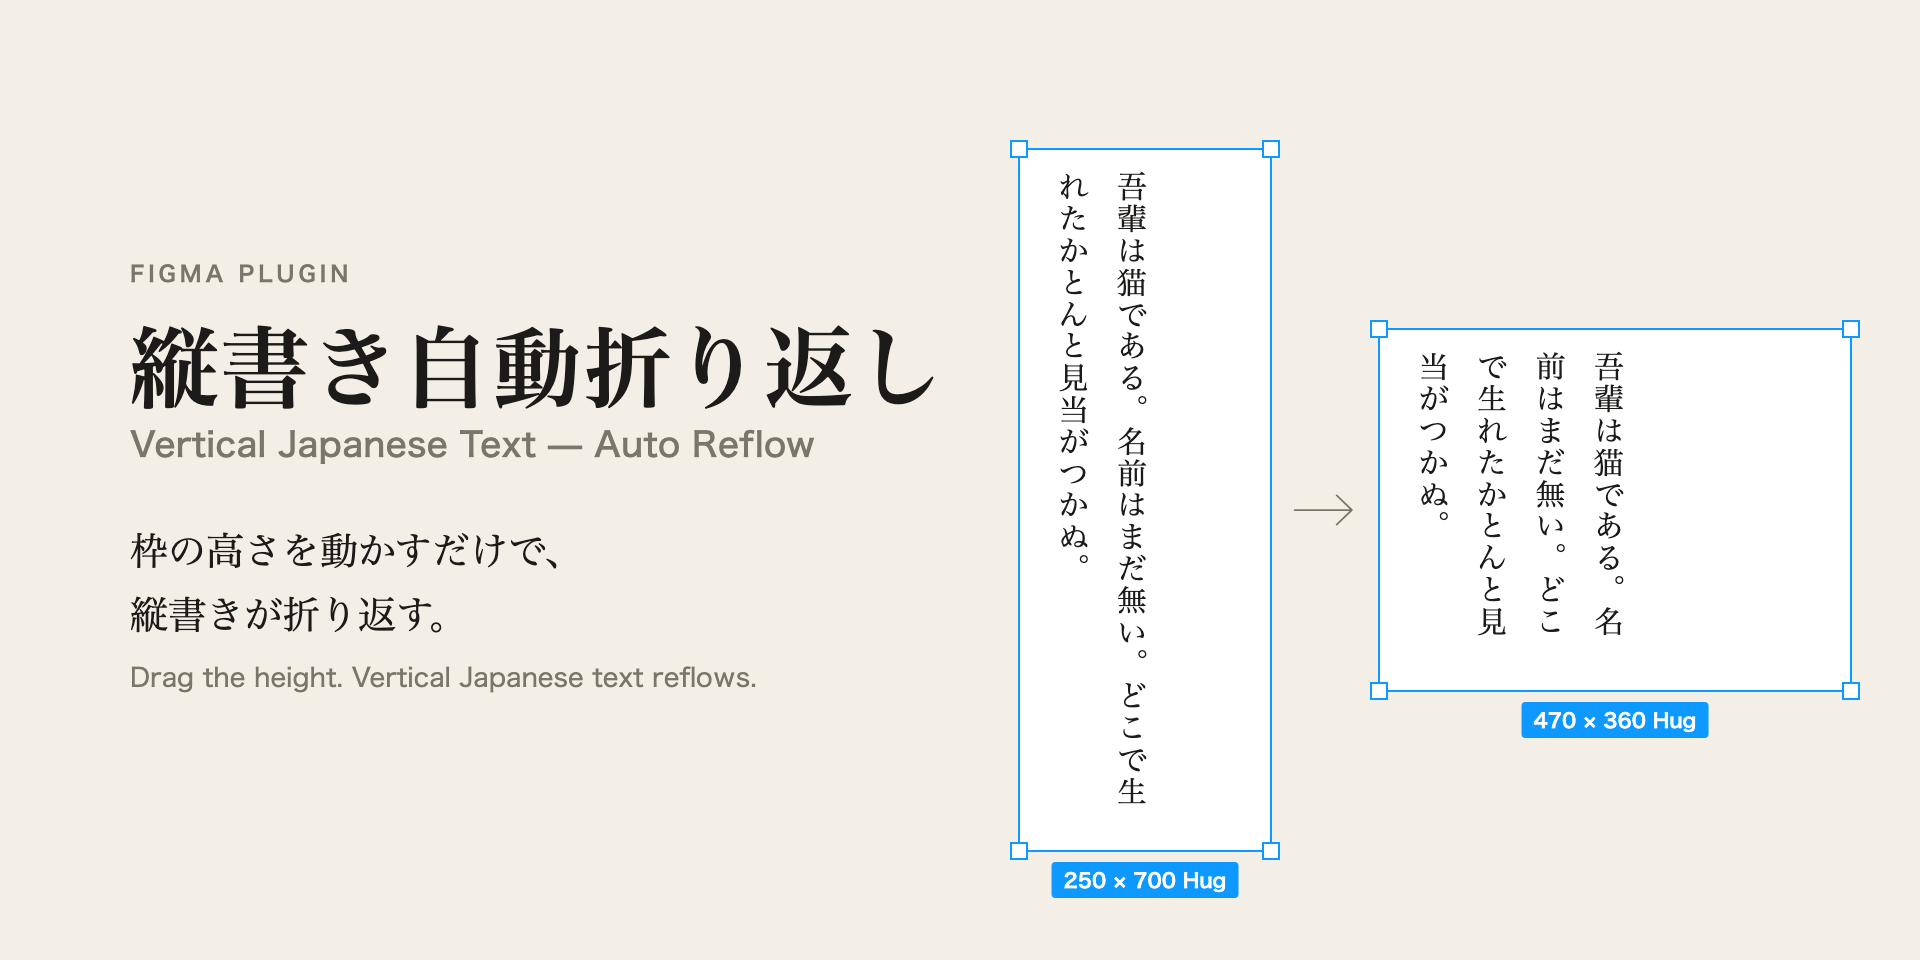
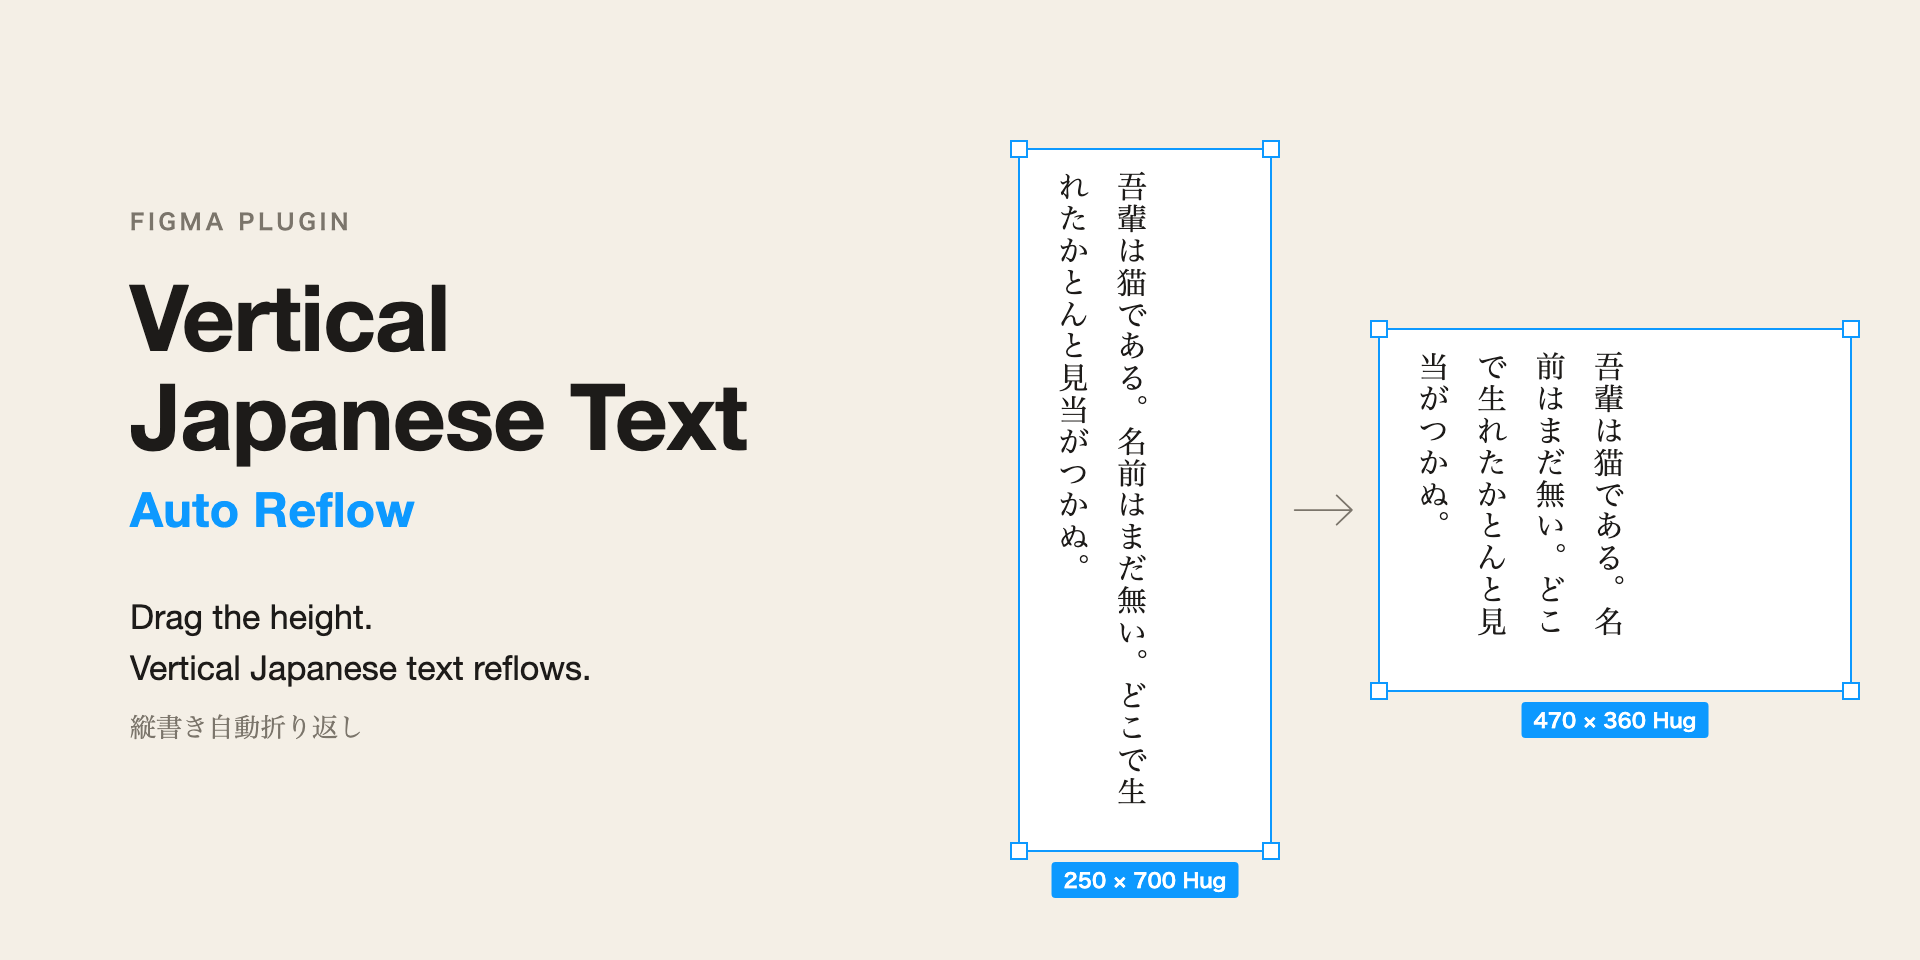
English-first listing and cover for non-Japanese audience

diff --git a/assets/cover.html b/assets/cover.html
@@ -14,10 +14,10 @@
   }
   .left { padding: 0 0 0 130px; }
   .tag { font: 600 22px/1 'Inter', 'Hiragino Sans', sans-serif; letter-spacing: .18em; color: var(--muted); text-transform: uppercase; }
-  h1 { font-weight: 600; font-size: 88px; line-height: 1.12; margin: 34px 0 6px; letter-spacing: .03em; white-space: nowrap; }
-  .en { font: 500 34px/1.2 'Inter', 'Hiragino Sans', sans-serif; color: var(--muted); letter-spacing: .01em; }
-  .lead { margin-top: 54px; font-size: 38px; line-height: 1.7; }
-  .lead small { display: block; margin-top: 10px; font: 400 26px/1.5 'Inter', 'Hiragino Sans', sans-serif; color: var(--muted); }
+  h1 { font: 700 92px/1.08 'Inter', 'Helvetica Neue', Arial, sans-serif; margin: 34px 0 14px; letter-spacing: -.01em; }
+  .en { font: 600 48px/1.2 'Inter', 'Helvetica Neue', Arial, sans-serif; color: var(--blue); letter-spacing: .01em; }
+  .lead { margin-top: 54px; font: 400 34px/1.5 'Inter', 'Helvetica Neue', Arial, sans-serif; }
+  .lead small { display: block; margin-top: 14px; font: 400 26px/1.6 'Hiragino Mincho ProN', 'Yu Mincho', serif; color: var(--muted); }
   .right { position: relative; height: 960px; }
   .frame { position: absolute; outline: 2px solid var(--blue); background: #fff; padding: 22px 24px; }
   .frame .t {
@@ -35,10 +35,10 @@
 <body>
   <div class="left">
     <div class="tag">Figma plugin</div>
-    <h1>縦書き自動折り返し</h1>
-    <div class="en">Vertical Japanese Text — Auto Reflow</div>
-    <p class="lead">枠の高さを動かすだけで、<br>縦書きが折り返す。
-      <small>Drag the height. Vertical Japanese text reflows.</small></p>
+    <h1>Vertical<br>Japanese Text</h1>
+    <div class="en">Auto Reflow</div>
+    <p class="lead">Drag the height.<br>Vertical Japanese text reflows.
+      <small>縦書き自動折り返し</small></p>
   </div>
   <div class="right">
     <div class="frame a">

diff --git a/PUBLISHING.md b/PUBLISHING.md
@@ -44,59 +44,59 @@ Vertical Japanese Text — Auto Reflow
 ```
 日本語名: 縦書き自動折り返し
 
-命名の根拠: Community で「vertical japanese」を検索すると Vertical Text JP（9.1k 利用）・Vertja（9.1k）などが出る。これらは「変換して終わり」型で、検索語（vertical / Japanese / text）を名前に含めつつ、競合にない「Auto Reflow」で差別化する。名前欄に長さの上限があって入らない場合は `Vertical Japanese Text` にして、Auto Reflow はタグラインに回す。
+命名の根拠: 海外のユーザーは「縦書き」「tategaki」を知らないので、名前は英語の一般語だけにする。Community で「vertical japanese」を検索すると Vertical Text JP（9.1k 利用）・Vertja（9.1k）などが出る。これらは「変換して終わり」型で、検索語（vertical / Japanese / text）を名前に含めつつ、競合にない「Auto Reflow」で差別化する。名前欄に長さの上限があって入らない場合は `Vertical Japanese Text` にして、Auto Reflow はタグラインに回す。
 
 ### タグライン / Tagline
-Figma のフォームは欄が 1 つなので、日英を 1 行に入れる:
+海外のユーザーが対象なので、**英語を先頭**にする（一覧や検索結果で最初に見えるのは先頭だけ）。欄が 1 つなので 1 行に入れる:
 ```
-枠の高さを動かすだけで、縦書きが折り返す。 / Drag the height. Vertical Japanese text reflows.
+Vertical Japanese writing in Figma: drag the height and the columns reflow. / 縦書きが折り返す
 ```
 長さの上限で入らない場合は、英語だけを入れる:
 ```
-Drag the height. Vertical Japanese text reflows.
+Vertical Japanese writing in Figma: drag the height and the columns reflow.
 ```
 
 ### 説明文 / Description
-1 つの欄に、段落ごとに日本語→英語を交互に並べる（組の中は改行、組の間は空行）:
+1 つの欄に、段落ごとに**英語→日本語**の順で交互に並べる（組の中は改行、組の間は空行）。冒頭は検索語（vertical Japanese text / vertical writing）を含む英語にする:
 ```
-Figma には縦書きがありません。「横向き Auto Layout の中に、1 文字ごとに改行したテキストの列を右から左へ並べる」形で再現できますが、枠を引っぱっても折り返しません。
-Figma has no vertical writing. You can fake it with a horizontal auto-layout frame holding columns of text with one character per line, but dragging the frame never reflows them.
+Vertical Japanese text for Figma. Drag the height of a vertical writing block and its columns reflow automatically, like auto-layout wrap for horizontal text.
+縦書きブロックの高さを引くだけで、列が自動で折り返されます。横書きの Auto Layout wrap と同じ感覚です。
 
-このプラグインは、その折り返しを担います。縦書きブロックの高さのハンドルを引くだけで、列が自動で折り返され、親の幅が伸び縮みします。横書きの Auto Layout wrap と同じ感覚で、右端は動きません。
-This plugin does the reflowing. Drag the height handle of a vertical block and its columns wrap automatically while the parent width hugs the result, much like auto-layout wrap for horizontal text. The right edge stays put.
+Figma has no vertical writing. You can fake it with a horizontal auto-layout frame holding columns of text with one character per line, but dragging the frame never reflows them. This plugin does the reflowing, and the parent width hugs the result. The right edge stays put.
+Figma には縦書きがありません。1 文字ごとに改行した列を右から左へ並べる形で再現できますが、枠を引っぱっても折り返しません。このプラグインがその折り返しを担い、親の幅も追従します。右端は動きません。
 
-■ 使い方 / How to use
-1. テキスト、または縦書きの列を並べた横向き Auto Layout のフレームを選び、「縦書きブロックにする」を押す（「新しい縦書きを作る」からも作れます）
-   Select a text layer, or a horizontal auto-layout frame of vertical columns, and press "Make vertical block" (or start from "Create new vertical text").
-2. ブロックの高さのハンドルを引く
-   Drag the block's height handle.
-3. 文章は、パネルの本文欄、またはキャンバス上の列を直接直す（数字・句読点の元の文字は保たれます）
-   Change the text in the panel, or edit a column directly on the canvas (original digits and punctuation are preserved).
+HOW TO USE / 使い方
+1. Select a text layer, or a horizontal auto-layout frame of vertical columns, and press "Make vertical block" (or start from "Create new vertical text").
+   テキスト、または縦書きの列を並べたフレームを選び、「縦書きブロックにする」を押す（「新しい縦書きを作る」からも作れます）。
+2. Drag the block's height handle.
+   ブロックの高さのハンドルを引く。
+3. Change the text in the panel, or edit a column directly on the canvas (original digits and punctuation are preserved).
+   パネルの本文欄、またはキャンバス上の列を直接直す（数字・句読点の元の文字は保たれます）。
 
-■ 組版 / Typesetting
-・禁則処理（行頭禁則・行末禁則・分割禁止）、句読点のぶら下がり
-  Japanese line-break rules (kinsoku: no punctuation at the start or end of a column, no-split pairs) and hanging punctuation.
-・縦書き用の句読点・括弧・長音（Unicode の縦書き字形、または回転セル）
-  Vertical punctuation, brackets and the long-vowel mark (Unicode vertical forms, or rotated cells).
-・数字：縦中横／横向き／漢数字（二〇二四、二千二十四）／縦に積む
-  Numerals: horizontal-in-vertical (tate-chu-yoko) / sideways / kanji (二〇二四, 二千二十四) / stacked upright.
-・英字：横向き／縦中横／縦に積む
-  Latin: sideways / horizontal-in-vertical / stacked upright.
+TYPESETTING / 組版
+- Japanese line-break rules (kinsoku: no punctuation at the start or end of a column, no-split pairs) and hanging punctuation.
+  禁則処理（行頭禁則・行末禁則・分割禁止）、句読点のぶら下がり。
+- Vertical punctuation, brackets and the long-vowel mark (Unicode vertical forms, or rotated cells).
+  縦書き用の句読点・括弧・長音（Unicode の縦書き字形、または回転セル）。
+- Numerals: horizontal-in-vertical (tate-chu-yoko) / sideways / kanji (二〇二四, 二千二十四) / stacked upright.
+  数字：縦中横／横向き／漢数字／縦に積む。
+- Latin: sideways / horizontal-in-vertical / stacked upright.
+  英字：横向き／縦中横／縦に積む。
 
-■ 知っておいてください / Good to know
-・プラグインを開いている間だけ折り返しが効きます（Figma の仕様）。閉じると、普通のレイヤーとして残ります。
-  Reflow works only while the plugin is open (a Figma limitation). When closed, the block stays as ordinary layers.
-・列は右から左に読むため、レイヤーパネルの順序は逆です（列 1 = 最後の子）。
-  Columns read right to left, so the layer order is reversed (column 1 = last child).
-・ルビ（ふりがな）は扱いません。
-  Ruby (furigana) is not supported.
+GOOD TO KNOW / 知っておいてください
+- Reflow works only while the plugin is open (a Figma limitation). When closed, the block stays as ordinary layers.
+  プラグインを開いている間だけ折り返しが効きます（Figma の仕様）。閉じると普通のレイヤーとして残ります。
+- Columns read right to left, so the layer order is reversed (column 1 = last child).
+  列は右から左に読むため、レイヤーパネルの順序は逆です（列 1 = 最後の子）。
+- Ruby (furigana) is not supported.
+  ルビ（ふりがな）は扱いません。
 ```
 
 ### タグ / Tags
 ```
-vertical text, vertical japanese, japanese typography, tategaki, auto layout, text wrap, cjk, 縦書き
+vertical text, vertical japanese, japanese vertical writing, japanese typography, japanese text, auto layout, text wrap, cjk, 縦書き, tategaki
 ```
-（`tategaki` と `縦書き` は日本語ユーザーの検索用。名前・本文には使わない）
+（`縦書き` と `tategaki` は日本語ユーザー・日本語を知る人の検索用で、最後に置く。海外ユーザーは tategaki を知らないので、名前・タグライン・説明の冒頭には使わない）
 
 ### リリースノート / Release notes（初回）
 ```
